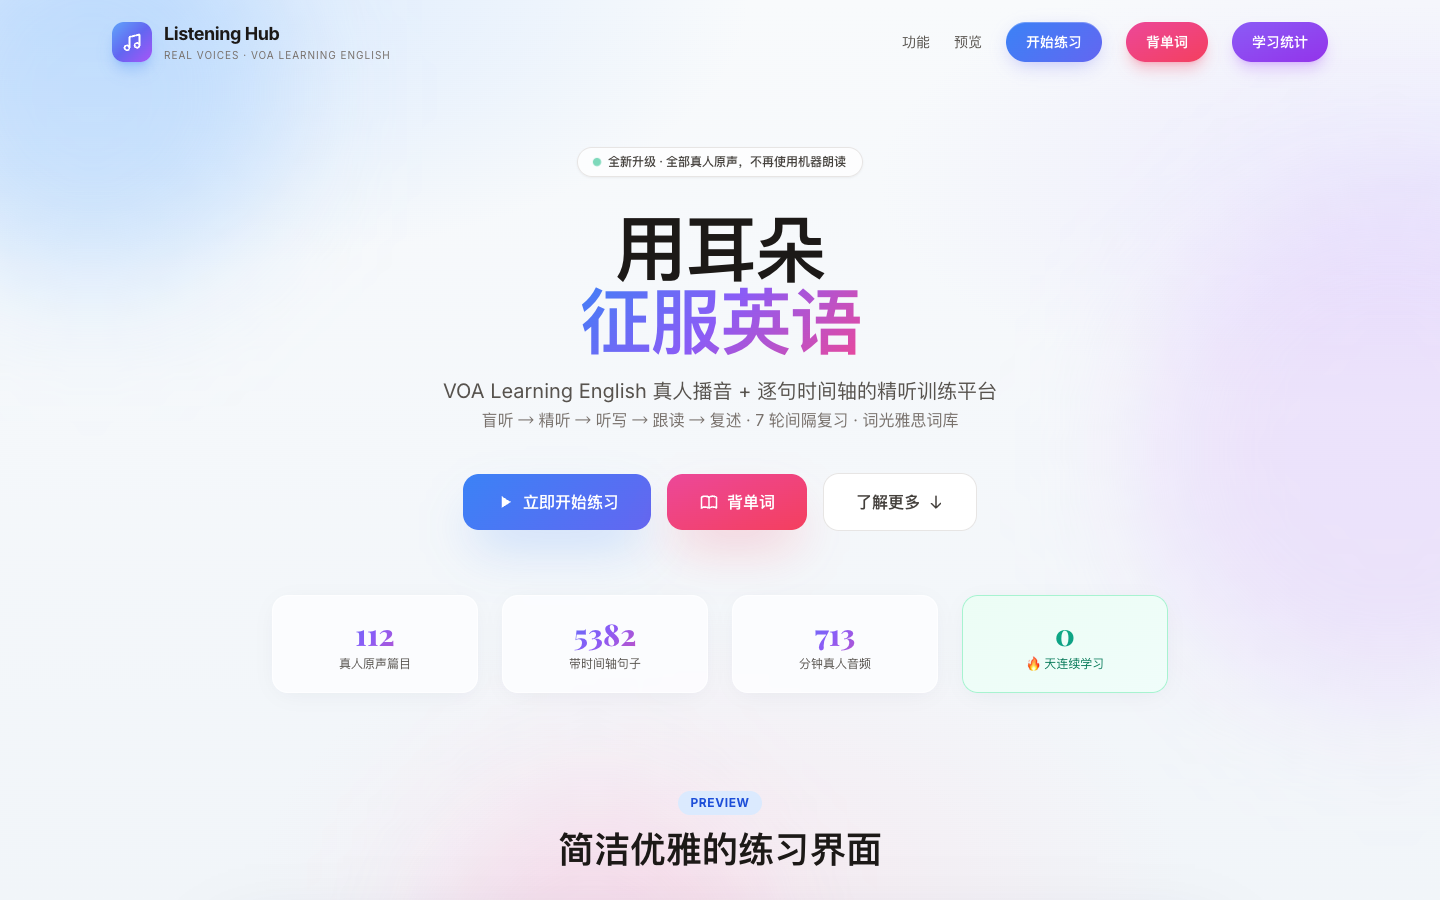
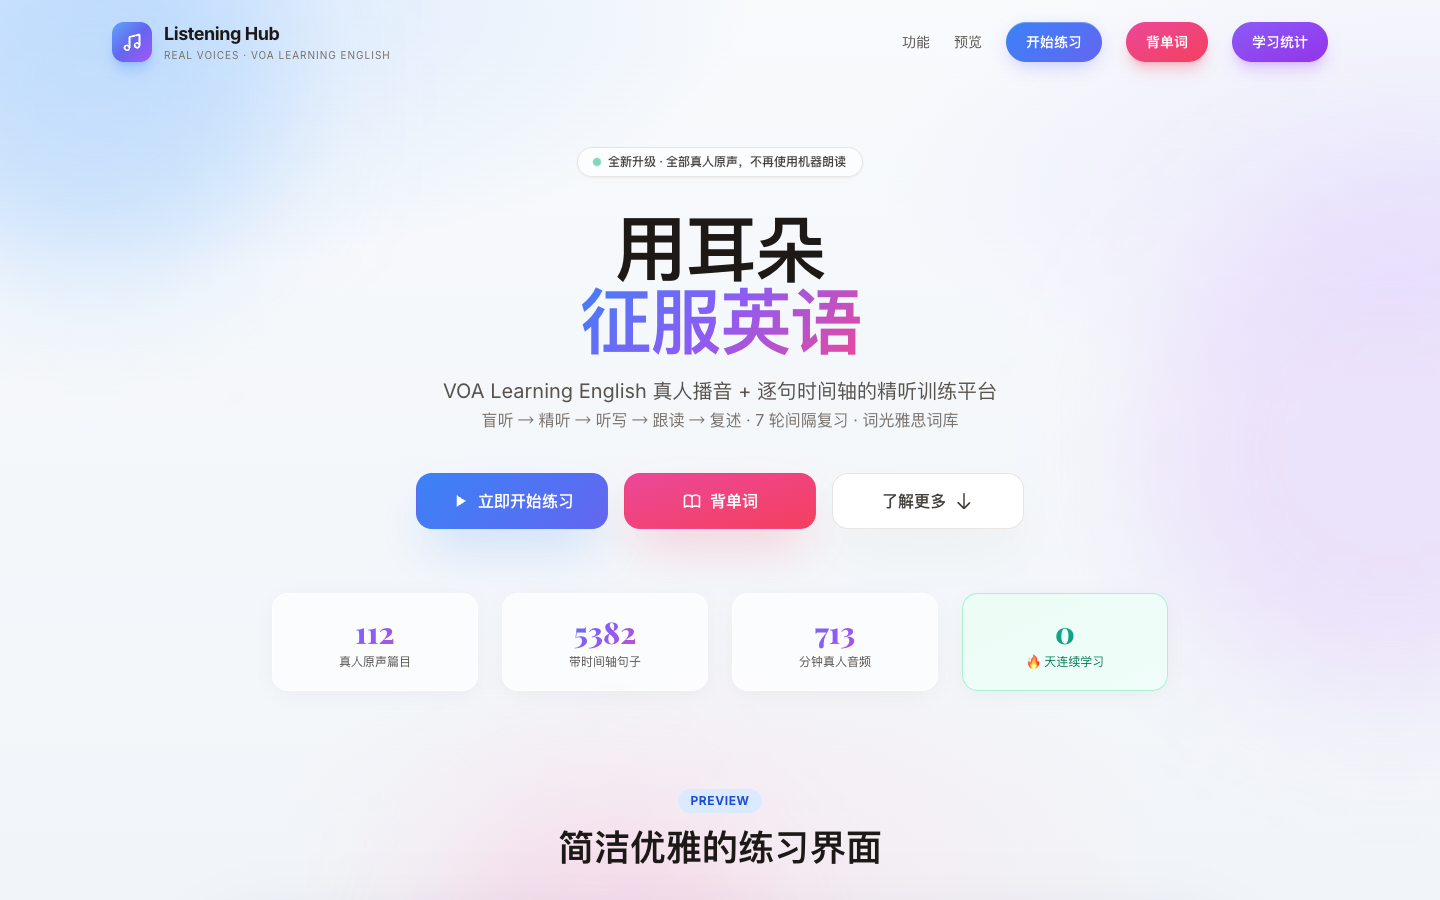
fix(ui): equal-size hero CTAs; restore pre-rebuild vocab card when meaning hidden

diff --git a/index.html b/index.html
@@ -444,19 +444,19 @@
       <!-- CTA -->
       <div class="flex flex-wrap items-center justify-center gap-4 mb-16">
         <button @click="enterApp"
-                class="btn-gradient px-8 py-4 rounded-2xl text-base font-bold flex items-center gap-2 shadow-2xl shadow-brand-500/30 hover:scale-105 transition-transform">
+                class="btn-gradient w-48 h-14 rounded-2xl text-base font-bold flex items-center justify-center gap-2 border border-transparent shadow-2xl shadow-brand-500/30 hover:scale-105 transition-transform">
           <svg class="w-5 h-5" fill="currentColor" viewBox="0 0 24 24"><path d="M8 5v14l11-7z"/></svg>
           立即开始练习
         </button>
         <button @click="enterVocab"
-                class="px-8 py-4 rounded-2xl text-base font-bold flex items-center gap-2 bg-gradient-to-br from-pink-500 to-rose-500 text-white shadow-2xl shadow-rose-500/30 hover:scale-105 transition-transform">
+                class="w-48 h-14 rounded-2xl text-base font-bold flex items-center justify-center gap-2 border border-transparent bg-gradient-to-br from-pink-500 to-rose-500 text-white shadow-2xl shadow-rose-500/30 hover:scale-105 transition-transform">
           <svg class="w-5 h-5" fill="none" viewBox="0 0 24 24" stroke="currentColor" stroke-width="2"><path stroke-linecap="round" stroke-linejoin="round" d="M12 6.253v13m0-13C10.832 5.477 9.246 5 7.5 5S4.168 5.477 3 6.253v13C4.168 18.477 5.754 18 7.5 18s3.332.477 4.5 1.253m0-13C13.168 5.477 14.754 5 16.5 5c1.747 0 3.332.477 4.5 1.253v13C19.832 18.477 18.247 18 16.5 18c-1.746 0-3.332.477-4.5 1.253"/></svg>
           背单词
         </button>
         <a href="#features"
-           class="px-8 py-4 rounded-2xl bg-white border border-sand-200 text-sand-700 font-semibold hover:bg-sand-50 transition-all flex items-center gap-2">
+           class="w-48 h-14 rounded-2xl bg-white border border-sand-200 text-sand-700 text-base font-bold shadow-2xl shadow-sand-900/5 hover:scale-105 transition-transform flex items-center justify-center gap-2">
           了解更多
-          <svg class="w-4 h-4" fill="none" viewBox="0 0 24 24" stroke="currentColor" stroke-width="2"><path stroke-linecap="round" stroke-linejoin="round" d="M19 14l-7 7m0 0l-7-7m7 7V3"/></svg>
+          <svg class="w-5 h-5" fill="none" viewBox="0 0 24 24" stroke="currentColor" stroke-width="2"><path stroke-linecap="round" stroke-linejoin="round" d="M19 14l-7 7m0 0l-7-7m7 7V3"/></svg>
         </a>
       </div>
 
@@ -1270,10 +1270,11 @@
       </div>
       <p v-if="vt.searchMsg" class="text-xs mb-4 px-1" :class="vt.searchError ? 'text-rose-500' : 'text-emerald-600'">{{ vt.searchMsg }}</p>
 
-      <div class="glass-strong rounded-3xl p-6 md:p-8 relative overflow-hidden min-h-[360px]">
-        <div class="flex items-center justify-between mb-5 relative gap-2 flex-wrap">
+      <div class="glass-strong rounded-3xl p-6 md:p-10 relative overflow-hidden min-h-[360px]">
+        <div class="absolute -top-24 -right-24 w-48 h-48 rounded-full bg-gradient-to-br from-brand-200/50 to-indigo-200/50 blur-3xl pointer-events-none"></div>
+        <div class="flex items-center justify-between mb-6 relative gap-2 flex-wrap">
           <div class="flex items-center gap-1.5 flex-wrap">
-            <span class="px-2.5 py-0.5 rounded-md bg-brand-100 text-brand-700 text-[10px] font-bold">{{ vtLibs[vt.library] }}</span>
+            <span class="px-2.5 py-0.5 rounded-md bg-brand-100 text-brand-700 text-[10px] font-bold">{{ vtLibs[vt.library] }} 词库</span>
             <template v-if="vtAtlas">
               <span class="px-2 py-0.5 rounded-md bg-violet-100 text-violet-700 text-[10px] font-bold">{{ vtAtlas.cefr }}</span>
               <span class="px-2 py-0.5 rounded-md bg-sand-100 text-sand-600 text-[10px] font-bold">{{ vtAtlasTopic }}</span>
@@ -1295,17 +1296,17 @@
         </div>
 
         <template v-else-if="vt.word">
-          <div class="flex flex-col md:flex-row md:items-center gap-5 mb-6">
+          <div class="mb-6 relative" :class="vtShowImg ? 'flex flex-col md:flex-row md:items-center gap-6' : 'text-center'">
             <!-- 词光插画（缩略图本地托管，点击加载 512px 大图） -->
-            <button v-if="vtAtlasMedia('thumb') && !(vtSpell.active && vtSpell.hideWord && !vtSpell.done && !vt.showMeaning)" @click="vt.imgLarge = !vt.imgLarge"
+            <button v-if="vtShowImg" @click="vt.imgLarge = !vt.imgLarge"
                     class="mx-auto md:mx-0 flex-shrink-0 rounded-3xl overflow-hidden border border-sand-200 bg-sand-50 shadow-sm transition-all"
                     :class="vt.imgLarge ? 'w-64 h-64 md:w-72 md:h-72' : 'w-36 h-36 md:w-40 md:h-40'" title="点击放大 / 缩小">
               <img :src="vt.imgLarge ? vtAtlasMedia('img') : vtAtlasMedia('thumb')" :alt="vt.word.word" class="w-full h-full object-cover" />
             </button>
-            <div class="flex-1 text-center" :class="vtAtlasMedia('thumb') ? 'md:text-left' : ''">
-              <h2 v-if="!vtSpell.active" class="text-4xl md:text-5xl font-display font-extrabold text-sand-900 tracking-tight mb-3">{{ vt.word.word }}</h2>
-              <div v-else class="mb-3">
-                <div class="text-4xl md:text-5xl font-extrabold tracking-[0.15em] font-mono flex items-center flex-wrap gap-y-2" :class="vtAtlasMedia('thumb') ? 'justify-center md:justify-start' : 'justify-center'">
+            <div class="flex-1 text-center" :class="vtShowImg ? 'md:text-left' : ''">
+              <h2 v-if="!vtSpell.active" class="text-4xl md:text-5xl font-display font-extrabold text-sand-900 tracking-tight mb-4">{{ vt.word.word }}</h2>
+              <div v-else class="mb-4">
+                <div class="text-4xl md:text-5xl font-display font-extrabold tracking-[0.15em] font-mono flex items-center flex-wrap gap-y-2" :class="vtShowImg ? 'justify-center md:justify-start' : 'justify-center'">
                   <span v-for="(c, i) in vtSpellChars" :key="i"
                         :class="c.state === 'ok' ? 'text-emerald-500' : c.state === 'wrong' ? 'text-rose-500 animate-pulse' : (vtSpell.hideWord && !vtSpell.done) ? 'text-sand-300' : 'text-sand-400'">
                     <template v-if="c.state === 'ok'">{{ c.char }}</template>
@@ -1313,21 +1314,21 @@
                     <template v-else>{{ (vtSpell.hideWord && !vtSpell.done) ? '_' : c.char }}</template>
                   </span>
                 </div>
-                <p class="mt-2 text-xs" :class="vtSpell.done ? 'text-emerald-600 font-semibold' : 'text-sand-400'">
+                <p class="mt-3 text-xs" :class="vtSpell.done ? 'text-emerald-600 font-semibold' : 'text-sand-400'">
                   <template v-if="vtSpell.done">✓ 拼写正确{{ vtSpell.wrongTimes > 0 ? `（错 ${vtSpell.wrongTimes} 次）` : ' · 一次通过' }} · 即将下一个</template>
                   <template v-else>直接敲键盘拼写{{ vtSpell.hideWord ? '（默写：听发音拼单词，按 P 重听）' : '' }} · 打错会清空重来</template>
                 </p>
               </div>
-              <div class="flex items-center gap-2 flex-wrap" :class="vtAtlasMedia('thumb') ? 'justify-center md:justify-start' : 'justify-center'">
-                <button v-if="vt.word.us" @click="vtSpeak('us')" class="inline-flex items-center gap-1.5 px-3 py-1.5 rounded-full border text-xs font-medium transition-all"
-                        :class="vt.accent === 'us' ? 'bg-brand-500 border-brand-500 text-white' : 'bg-brand-50 border-brand-200 text-brand-700'">🔊 美 /{{ vt.word.us }}/</button>
-                <button v-if="vt.word.uk" @click="vtSpeak('uk')" class="inline-flex items-center gap-1.5 px-3 py-1.5 rounded-full border text-xs font-medium transition-all"
-                        :class="vt.accent === 'uk' ? 'bg-brand-500 border-brand-500 text-white' : 'bg-brand-50 border-brand-200 text-brand-700'">🔊 英 /{{ vt.word.uk }}/</button>
+              <div class="flex items-center gap-3 flex-wrap" :class="vtShowImg ? 'justify-center md:justify-start' : 'justify-center'">
+                <button v-if="vt.word.us" @click="vtSpeak('us')" class="inline-flex items-center gap-1.5 px-3 py-1.5 rounded-full bg-brand-50 border border-brand-200 text-brand-700 text-xs font-medium hover:bg-brand-100 transition-all"
+                        :class="vt.accent === 'us' ? 'ring-2 ring-brand-300' : ''"><svg class="w-3.5 h-3.5" fill="currentColor" viewBox="0 0 24 24"><path d="M3 9v6h4l5 5V4L7 9H3z"/></svg>美 /{{ vt.word.us }}/</button>
+                <button v-if="vt.word.uk" @click="vtSpeak('uk')" class="inline-flex items-center gap-1.5 px-3 py-1.5 rounded-full bg-brand-50 border border-brand-200 text-brand-700 text-xs font-medium hover:bg-brand-100 transition-all"
+                        :class="vt.accent === 'uk' ? 'ring-2 ring-brand-300' : ''"><svg class="w-3.5 h-3.5" fill="currentColor" viewBox="0 0 24 24"><path d="M3 9v6h4l5 5V4L7 9H3z"/></svg>英 /{{ vt.word.uk }}/</button>
               </div>
             </div>
           </div>
 
-          <div v-if="vt.showMeaning" class="space-y-3 animate-slide-up">
+          <div v-if="vt.showMeaning" class="space-y-4 animate-slide-up relative">
             <div class="p-4 rounded-2xl bg-gradient-to-br from-amber-50 to-orange-50 border border-amber-200 space-y-1.5">
               <div v-for="(t, i) in vt.word.translations" :key="i" class="text-sm text-sand-800 leading-relaxed">
                 <span v-if="t.type" class="inline-block px-1.5 py-0.5 mr-1.5 rounded bg-brand-100 text-brand-700 text-[10px] font-bold align-middle">{{ t.type }}</span>{{ t.translation }}
@@ -1358,30 +1359,30 @@
             </div>
             <p v-if="vtAtlas?.note" class="text-xs text-rose-600 px-1">⚠ {{ vtAtlas.note }}</p>
           </div>
-          <div v-else class="py-8 text-center text-sm text-sand-400">释义已隐藏 · 先回忆，再按 <kbd class="px-1.5 py-0.5 rounded bg-sand-100 border border-sand-200 font-mono text-[10px] text-sand-700">Space</kbd> 核对</div>
+          <div v-else class="py-10 text-center text-sm text-sand-400 relative">释义已隐藏 · 先回忆，再按 <kbd class="px-1.5 py-0.5 rounded bg-sand-100 border border-sand-200 font-mono text-[10px] text-sand-700">Space</kbd> 核对</div>
         </template>
       </div>
 
-      <div class="flex items-center justify-between gap-3 mt-5 flex-wrap">
-        <button @click="vtPrev" :disabled="vt.loading || vt.index <= 1" class="flex-1 md:flex-none px-6 py-3 rounded-2xl bg-white border border-sand-200 text-sm font-semibold text-sand-700 hover:bg-sand-50 disabled:opacity-30">← 上一个</button>
+      <div class="flex items-center justify-between gap-3 mt-6 flex-wrap">
+        <button @click="vtPrev" :disabled="vt.loading || vt.index <= 1" class="flex-1 md:flex-none px-6 py-3 rounded-2xl bg-white border border-sand-200 text-sm font-semibold text-sand-700 hover:bg-sand-50 disabled:opacity-30 disabled:cursor-not-allowed transition-all flex items-center justify-center gap-2"><svg class="w-4 h-4" fill="none" viewBox="0 0 24 24" stroke="currentColor" stroke-width="2.5"><path stroke-linecap="round" stroke-linejoin="round" d="M15 19l-7-7 7-7"/></svg>上一个</button>
         <div class="flex items-center gap-2 order-first md:order-none w-full md:w-auto justify-center">
           <button @click="vtToggleMeaning" class="px-4 py-3 rounded-2xl text-sm font-semibold transition-all"
                   :class="vt.showMeaning ? 'bg-sand-100 border border-sand-200 text-sand-700' : 'bg-gradient-to-br from-brand-500 to-indigo-500 text-white shadow-md'">{{ vt.showMeaning ? '隐藏释义' : '显示释义' }}</button>
-          <button @click="vtAddToVocab" :disabled="!vt.word || vtWordSaved" class="px-4 py-3 rounded-2xl text-sm font-semibold transition-all"
-                  :class="vtWordSaved ? 'bg-emerald-50 border border-emerald-200 text-emerald-700' : 'bg-gradient-to-br from-pink-500 to-rose-500 text-white shadow-md'">{{ vtWordSaved ? '✓ 已在生词本' : '不会，加入生词本' }}</button>
+          <button @click="vtAddToVocab" :disabled="!vt.word || vtWordSaved" class="px-4 py-3 rounded-2xl text-sm font-semibold transition-all flex items-center gap-1.5"
+                  :class="vtWordSaved ? 'bg-emerald-50 border border-emerald-200 text-emerald-700' : 'bg-gradient-to-br from-pink-500 to-rose-500 text-white shadow-md'"><svg v-if="vtWordSaved" class="w-4 h-4" fill="currentColor" viewBox="0 0 24 24"><path d="M9 16.17L4.83 12l-1.42 1.41L9 19 21 7l-1.41-1.41L9 16.17z"/></svg>{{ vtWordSaved ? '已在生词本' : '不会，加入生词本' }}</button>
           <form @submit.prevent="vtJump" class="hidden md:flex items-center gap-1">
             <input v-model="vt.jumpInput" type="number" min="1" :max="vtTotal" placeholder="序号" class="w-20 px-3 py-3 rounded-2xl bg-white border border-sand-200 text-sm text-center outline-none" />
             <button type="submit" class="px-3 py-3 rounded-2xl bg-white border border-sand-200 text-sm font-semibold text-sand-600">跳转</button>
           </form>
         </div>
-        <button @click="vtNext" :disabled="vt.loading || vt.index >= vtTotal" class="flex-1 md:flex-none px-6 py-3 rounded-2xl bg-white border border-sand-200 text-sm font-semibold text-sand-700 hover:bg-sand-50 disabled:opacity-30">下一个 →</button>
+        <button @click="vtNext" :disabled="vt.loading || vt.index >= vtTotal" class="flex-1 md:flex-none px-6 py-3 rounded-2xl bg-white border border-sand-200 text-sm font-semibold text-sand-700 hover:bg-sand-50 disabled:opacity-30 disabled:cursor-not-allowed transition-all flex items-center justify-center gap-2">下一个<svg class="w-4 h-4" fill="none" viewBox="0 0 24 24" stroke="currentColor" stroke-width="2.5"><path stroke-linecap="round" stroke-linejoin="round" d="M9 5l7 7-7 7"/></svg></button>
       </div>
 
       <div class="mt-4 flex items-center justify-center gap-4 text-[11px] text-sand-400 flex-wrap">
-        <span>← → 切换单词</span>
-        <span>P 发音</span>
-        <span v-if="!vtSpell.active">Space 显隐释义</span>
-        <span v-else>拼写模式：直接敲字母 · Backspace 删除 · 全对自动切词并更新复习计划</span>
+        <span><kbd class="px-1.5 py-0.5 rounded bg-sand-100 border border-sand-200 font-mono text-[10px] text-sand-700">←</kbd> <kbd class="px-1.5 py-0.5 rounded bg-sand-100 border border-sand-200 font-mono text-[10px] text-sand-700">→</kbd> 切换单词</span>
+        <span><kbd class="px-1.5 py-0.5 rounded bg-sand-100 border border-sand-200 font-mono text-[10px] text-sand-700">P</kbd> 发音</span>
+        <span v-if="!vtSpell.active"><kbd class="px-1.5 py-0.5 rounded bg-sand-100 border border-sand-200 font-mono text-[10px] text-sand-700">Space</kbd> 显隐释义</span>
+        <span v-else>拼写模式：直接敲字母 · <kbd class="px-1.5 py-0.5 rounded bg-sand-100 border border-sand-200 font-mono text-[10px] text-sand-700">Backspace</kbd> 删除 · 全对自动切词并按表现更新复习计划</span>
       </div>
       <p v-if="vt.library === 'ielts' && atlasMeta" class="mt-6 text-center text-[11px] text-sand-400 leading-relaxed">
         雅思词库、插画与录音来自 <a :href="atlasMeta.upstream" target="_blank" rel="noopener" class="underline hover:text-brand-600">词光 Word Atlas</a>

diff --git a/js/vocab/use-vocab-trainer.js b/js/vocab/use-vocab-trainer.js
@@ -251,9 +251,14 @@ export function useVocabTrainer(ctx) {
     return false;
   }
 
+  // 插画本身就是释义提示：释义隐藏（自测中）或默写未完成时不显示，卡片回到居中布局
+  const showImg = computed(() => !!atlasMedia('thumb')
+    && (vt.showMeaning || spell.done)
+    && !(spell.active && spell.hideWord && !spell.done));
+
   return {
     vt, vtLibs: VT_LIBS, vtTotal: total, vtWordSaved: wordSaved, vtAtlas: atlas, vtAtlasTopic: atlasTopic, atlasMeta,
-    vtAtlasMedia: atlasMedia, vtPlayExample: playExample, vtExampleHasAudio: exampleHasAudio,
+    vtAtlasMedia: atlasMedia, vtShowImg: showImg, vtPlayExample: playExample, vtExampleHasAudio: exampleHasAudio,
     vtSetLibrary: setLibrary, vtPrev: prev, vtNext: next, vtJump: jump, vtGo: go, vtSearch: search,
     vtToggleMeaning: toggleMeaning, vtSpeak: speak, vtAddToVocab: addToVocab,
     vtSpell: spell, vtSpellChars: spellChars, vtToggleSpell: toggleSpell, vtToggleSpellHide: toggleSpellHide,
